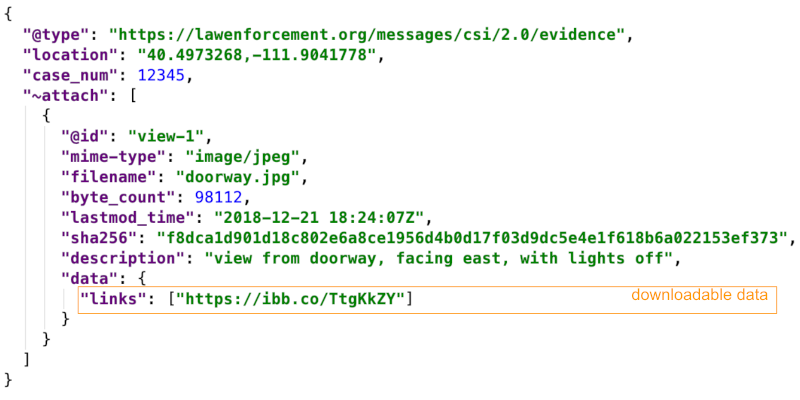
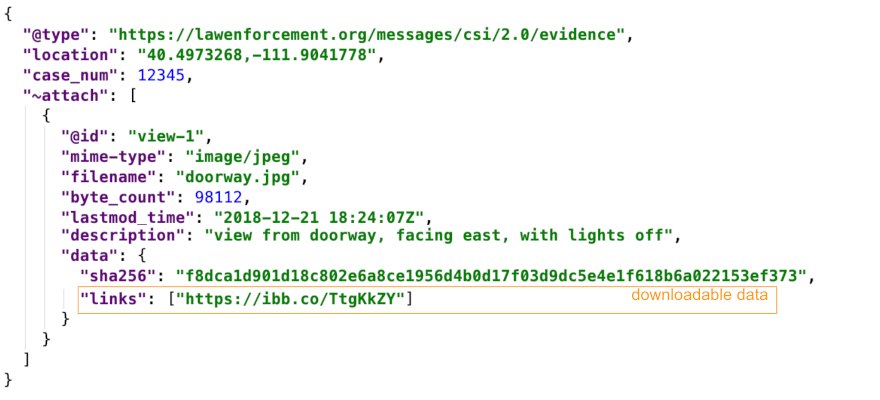
align crime scene content with spec: put sha256 into data dict; include description field in reference

diff --git a/concepts/0017-attachments/README.md b/concepts/0017-attachments/README.md
@@ -403,6 +403,8 @@ Because `@id` is used to compose URIs, it is recommended that this
 name be brief and avoid spaces and other characters that require URI
 escaping.
 
+* `description`: An optional human-readable description of the content.
+
 * `filename`: A hint about the name that might be used if this attachment is
 persisted as a file. It is not required, and need not be unique. If this field
 is present and `mime-type` is not, the extension on the filename may be used
